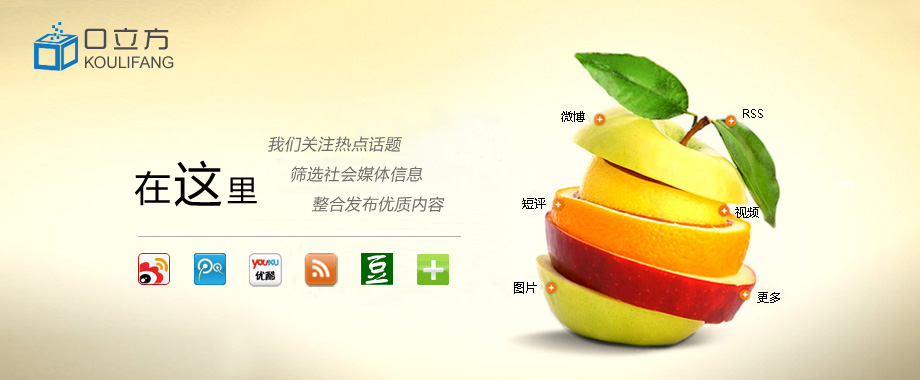
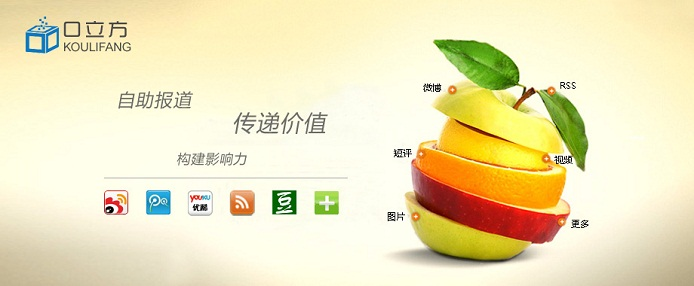
add slide img to the front page

diff --git a/css/layout.css b/css/layout.css
@@ -85,10 +85,6 @@ div.pagination a{color:#0030ce;text-decoration:none;border:1px solid #b7d8ee;mar
 div.pagination a:hover,div.pagination a:active{color:#0066a7;border:1px solid #b7d8ee;background-color:#d2eaf6}
 div.pagination span.current{border:1px solid #b7d8ee;font-weight:700;color:#444;background-color:#d2eaf6;margin:0 3px;padding:5px 6px 4px 5px}
 #trendTopics{float:left;width:550px;margin-right:40px}
-#topUsers{overflow:hidden;width:320px;float:left}
-#topUsers ul li{float:left;margin:0 14px 7px 0;width:50px;height:80px;display:inline;text-align:center}
-#topUsers ul li div{overflow:hidden;white-space:nowrap;width:50px;text-overflow:ellipsis;text-align:center}
-#topUsers ul li img{width:50px;height:50px;border:0px}
 .category h3{border-bottom:1px solid #E6E6E6;color:#666;padding-bottom:10px;font-size:20px;font-weight:500;text-shadow:0 1px 0 #FFFFFF, 0 1px 0 #EEE;margin:40px 0 18px}
 .published-steps{background:none repeat scroll 0 0 #FFF;border:1px solid #ABABAC;box-shadow:0 0 5px rgba(212, 212, 212, 0.3);font-size:12px;width:660px;margin:0 0 5px;padding:10px 0 0}
 .published-steps .tabs{margin-bottom:-1px;padding:0 0 0 10px}
@@ -436,6 +432,9 @@ div,dl,dt,dd,ul,ol,li,h1,h2,h3,h4,h5,h6,pre,form,fieldset,input,textarea,p,block
 #login_form_wrapper,#homepage .inner .category,.douban_wrapper .item_info,.douban_wrapper .item_info_drop,.user_info,#footer .wrapper,#boxes #dialog form div.wrapper{overflow:auto}
 #login_form_r #connectBtn,.login_right #connectBtn{margin-top:5px}
 #login_form .form_div,#sign_up div{margin-bottom:20px}
+#login_form_right{padding:20px 0 60px;border-bottom:1px solid #DDD}
+#login_form_right a{margin-right:10px}
+#login_form_right .form_div{margin-bottom:10px}
 #fb_form .label{margin-top:20px}
 #login_form .auto_login,.create_time{padding-left:36px}
 #c_pwd_form .wrapper div,#c_email_form .wrapper div,#login_modal .form_div{margin-top:20px}
@@ -508,8 +507,6 @@ div,dl,dt,dd,ul,ol,li,h1,h2,h3,h4,h5,h6,pre,form,fieldset,input,textarea,p,block
 #second_tip{top:70px;left:10px}
 #third_tip{top:320px;left:325px}
 #fourth_tip{top:210px;left:500px}
-#more_info{position:absolute;bottom:8px;right:118px;z-index:100}
-#f_register{position:absolute;bottom:8px;right:8px;z-index:100}
 #go_top{position:fixed;right:15px;bottom:15px;display:block;z-index:100}
 #go_top a{display:block;_display:none;height:50px;width:50px;background:url('../img/gotop.gif')}
 #go_top a:hover{background:url('../img/gotoph.gif')}
@@ -567,7 +564,16 @@ div.slider-nav span.left{background:url(orbit/left-arrow.png);left:0}
 .t_category .category_list li{float:left;margin-right:10px}
 .t_category .category_list li a{}
 .t_category .category_list li a:hover{text-decoration:underline}
+#subscription #more_sub{position:absolute;top:3px;left:105px}
 #left_main{float:left;width:694px;margin-right:50px;}
-#right_main{float:right;width:216px;margin-top:100px}
+#right_main{float:right;width:200px;margin-top:55px;padding-left:16px}
 #right_main ul li{font-size:14px;margin-top:15px}
 #rec_people,#invite_people,#add_info{border-top:1px solid #DDD;margin-top:30px;padding-top:15px}
+#recUsers{overflow:hidden;padding:30px 0 10px;border-bottom:1px solid #DDD}
+#topUsers{overflow:hidden}
+#topUsers ul li{float:left;margin:0 10px 7px 0;width:40px;height:40px;display:inline;text-align:center}
+#topUsers ul li img{width:40px;height:40px;border:0px}
+#recUsers ul li{clear:both;overflow:auto;margin-bottom:5px}
+#recUsers ul li img{float:left;width:50px;height:50px;border:0px}
+#recUsers .user_intro{float:left;margin-left:10px}
+#recUsers .user_intro div{width:120px;overflow:hidden;white-space:nowrap;text-overflow:ellipsis}

diff --git a/js/frontpage.js b/js/frontpage.js
@@ -108,6 +108,20 @@ $(function(){
 	  self.location=data;
 	});
   });
+  
+  $('#login_form_right .loginbtn').click(function(e)
+  {
+    var email_val = $('#login_form_right #email_login').val(),
+        pwd_val = $('#login_form_right #pwd_login').val();
+    if(email_val == '' || pwd_val == '')
+    {
+      e.preventDefault();
+    }
+    else
+    {
+      $('#login_form_right form').submit();
+    }
+  });
 	
 	$('a[name=modal]').click(function(e) {
 		e.preventDefault();

diff --git a/index.php b/index.php
@@ -36,7 +36,8 @@ include $_SERVER['DOCUMENT_ROOT'].'/member/tagoperation.php';
    } 
    set_magic_quotes_runtime(0); //关闭magic_quotes_gpc
 
-	if(islogin())
+	$login_flag = islogin();
+	if($login_flag)
     { 
 		$user_profile_img;
 		$userresult=$DB->fetch_one_array("SELECT id, photo FROM ".$db_prefix."user WHERE id='".$_SESSION['uid']."'" );
@@ -101,99 +102,28 @@ include $_SERVER['DOCUMENT_ROOT'].'/member/tagoperation.php';
     
 	<div id='main_content' class='inner'>
 	  <div><a id='user_feedback_tab' href='/contactus'>feedback</a></div>
+	<div id='left_main'>
 	<?php
-	/*if(!islogin())
+	if($login_flag)
 	{
-	  $slider_content ="
+	  echo "<div id='subscription' class='t_category'>
+	  <h3><a href='#'>我的订阅</a></h3>
+	  <span id='more_sub'><a href='#'>更多 &raquo;</a></span>
+	  <ul class='sto_cover_list'>";
+	  $i_query = "select * from ".$db_prefix."posts ORDER BY RAND() LIMIT 3";
+	  $result=$DB->query($i_query);
+	  printStory($result);
+	  echo "</ul></div>";
+	}
+	else
+	{
+	  ?>
 	  <div id='featured_container'>
-		<div id='sprite-slide1'></div>
-		<div id='more_info'><a class='large green awesome' href='/tour'>了解更多 &raquo;</a></div>
-		<div id='f_register'><a class='large blue awesome' href='/accounts/register'>加入我们 &raquo;</a></div>
-	  </div>";
-	  echo $slider_content;
-	}*/
-	?>
-	<?php
-	if(islogin())
-	{
-	    $new_content = "<div id='new_wrapper'><h3>我的订阅</h3><ul id='mycarousel' class='jcarousel-skin-tango sto_cover_list'>";
-		$uid = $_SESSION['uid'];
-		$follow_query="select follow_id from ".$db_prefix."follow, story_posts where user_id=".$uid." and follow_id = post_author and post_status = 'Published' and TO_DAYS(NOW())-TO_DAYS(post_date) <=7 group by follow_id";
-		$fol_result = $DB->query($follow_query);
-		$fol_array = array();
-		$item__array = array();
-		while($item = mysql_fetch_array($fol_result))
-			$fol_array[] = $item['follow_id'];
-		$len = sizeof($fol_array);
-		if ($len >= 10){
-			$ran_keys = array_rand($fol_array, 10);
-			foreach($ran_keys as $idx){
-				$query = "select * from story_posts where post_author=".$fol_array[$idx]." order by post_date desc limit 1";
-				$story_result = $DB->query($query);
-				$item_array[] = mysql_fetch_array($story_result);
-			}
-		}else if ($len > 0)
-			foreach($fol_array as $fid){
-				$query = "select * from story_posts where post_author=".$fid." order by post_date desc limit 1";
-				$story_result = $DB->query($query);
-				$item_array[] = mysql_fetch_array($story_result);
-			}
-		$left = 10 - $len;
-		if( $left < 10 )
-			$new_query="select post_author,post_pic_url,post_title,post_date,story_posts.ID from story_posts where post_author !=".$uid." and post_author not in (select follow_id from story_follow where user_id=".$uid.") and post_status = 'Published' order by post_date desc limit ".$left;
-		else
-			$new_query="select * from story_posts where post_author !=".$uid." and post_status = 'Published' order by post_date desc limit $left";
-		$others_result = $DB->query($new_query);
-        $cnt=array();
-		while($item=$DB->fetch_array($others_result)){
-            if(++$cnt[$item['post_author']] > 2)
-                continue;
-			$item_array[] = $item;
-        }
-		foreach($item_array as $story_item)
-	  {
-	    $post_author = $story_item['post_author'];
-	    $post_pic_url = $story_item['post_pic_url'];
-		if($post_pic_url == '')
-		{
-		  $post_pic_url = '/img/event_dft.jpg';
-		}
-	    $userresult = $DB->fetch_one_array("SELECT username, photo FROM ".$db_prefix."user where id='".$post_author."'");
-	    $user_profile_img = $userresult['photo'];
-		$author_name = $userresult['username'];
-		if($user_profile_img == '')
-		{
-		  $user_profile_img = '/img/douban_user_dft.jpg';
-		}
-	    $post_title = $story_item['post_title'];
-	    $post_date = $story_item['post_date'];
-	    $temp_array = explode(" ", $story_item['post_date']);
-	    $post_date = $temp_array[0];
-		$post_link = "/user/".$post_author."/".$story_item['ID'];
-		$post_link = htmlspecialchars($post_link);
-	    $new_content .= "<li>
-						  <div class='story_wrap'>	
-							<a href='".$post_link."'>
-							  <img class='cover' src='".$post_pic_url."' alt='' />
-							</a>
-							<a class='title_wrap' href='".$post_link."'>
-							  <span class='title'>".$post_title."</span>
-							</a>
-						  </div>
-						  <div class='story_meta'>
-							<span>
-							  <a class='meta_date'>".$post_date."</a>
-							  <img src='".$user_profile_img."' alt=''/>
-							  <a class='meta_author' href='/user/".$post_author."'>".$author_name."</a>
-							</span>
-						  </div>
-						</li>";
-	  }
-	  $new_content.="</ul></div>";
-      echo $new_content;	  
+		<img src='/img/slide1.jpg'/>
+	  </div>
+	  <?php
 	}
 	?>
-	<div id='left_main'>
 	<div id='society' class='t_category'>
 	  <h3><a href='#'>社会</a></h3>
 	  <ul class='category_list'>
@@ -274,10 +204,12 @@ include $_SERVER['DOCUMENT_ROOT'].'/member/tagoperation.php';
 	</div>
 	</div>
 	<div id='right_main'>
-	  <ul>
-	    <li><a href='#'>我的订阅</a></li>
-		<li><a href='#'>我的收藏</a></li>
-		<li><a href='#'>我的创作</a></li>
+	  <?php
+	  if($login_flag)
+	  {
+	    $custom_content = "<ul>
+		<li><a href='#'>我创作的 &raquo;</a></li>
+		<li><a href='#'>我喜欢的 &raquo;</a></li>
 	  </ul>
 	  <div id='add_info'>
 	    <h3><a href='#'>完善你的个人资料</a></h3>
@@ -287,7 +219,68 @@ include $_SERVER['DOCUMENT_ROOT'].'/member/tagoperation.php';
 	  </div>
 	  <div id='rec_people'>
 	    <h3><a href='#'>你可能感兴趣的人</a></h3>
-	  </div>
+	  </div>";
+	  }	  
+	  else
+	  {
+	    $custom_content = "<div id='login_form_right'>
+						     <form method='post' action='/accounts/login/login'>
+							   <div class='form_div'><div class='form_label'>邮&nbsp;箱</div><input type='text' name='email' id='email_login' size='26' /></div>
+							   <div class='form_div'><div class='form_label'>密&nbsp;码</div><input type='password' name='passwd' id='pwd_login' size='26' /></div>
+							   <div class='auto_login'><span><input type='checkbox' name='autologin' />下次自动登录</span> | <span><a href='/accounts/forget_password'>忘记密码了？</a></span></div>
+							   <div><a class='medium blue awesome loginbtn'>登 录 &raquo;</a><a class='medium green awesome' href='/accounts/register'>注册 &raquo;</a></div>
+							 </form>
+						   </div>
+						   <div id='recUsers' class='t_category'>
+						     <h3>推荐用户</h3>
+							 <ul>";
+		$query = "SELECT id, username, photo, intro from ".$db_prefix."user ORDER BY RAND() LIMIT 4";
+		$result=$DB->query($query);
+		while ($user_item = mysql_fetch_array($result))
+		{
+		  $u_id = $user_item['id'];
+		  $u_name = $user_item['username'];
+		  $u_photo = $user_item['photo'];
+		  $u_intro = $user_item['intro'];
+		  $u_intro = "推荐用户推荐用户推荐用户推荐用户推荐用户推荐用户推荐用户";
+		  if(empty($u_photo))
+		  {
+			$u_photo = 'img/douban_user_dft.jpg';
+		  }
+		  $u_link = "/user/".$u_id;
+		  $custom_content.="<li>
+							  <a href='".$u_link."' title='".$u_name."'><img src='".$u_photo."' /></a>
+							  <div class='user_intro'>
+							    <div><a href='".$u_link."' title='".$u_name."'>".$u_name."</a></div>
+							    <div>".$u_intro."</div>
+							  </div>
+							</li>";
+		}
+		$custom_content.= "</ul>
+						   </div>
+						   <div id='topUsers' class='t_category'>
+						     <h3>随便看看</h3>
+							 <ul>";
+		$query = "SELECT id, username, photo from ".$db_prefix."user ORDER BY RAND() LIMIT 16";
+		$result=$DB->query($query);
+		while ($user_item = mysql_fetch_array($result))
+		{
+		  $u_id = $user_item['id'];
+		  $u_name = $user_item['username'];
+		  $u_photo = $user_item['photo'];
+		  if(empty($u_photo))
+		  {
+			$u_photo = 'img/douban_user_dft.jpg';
+		  }
+		  $u_link = "/user/".$u_id;
+		  $custom_content.="<li>
+							  <a href='".$u_link."' title='".$u_name."'><img src='".$u_photo."' /></a>
+							</li>";
+		}
+		$custom_content.= "</ul></div>";
+	  }
+	  echo $custom_content;
+	  ?>
 	</div>
   </div>
 
